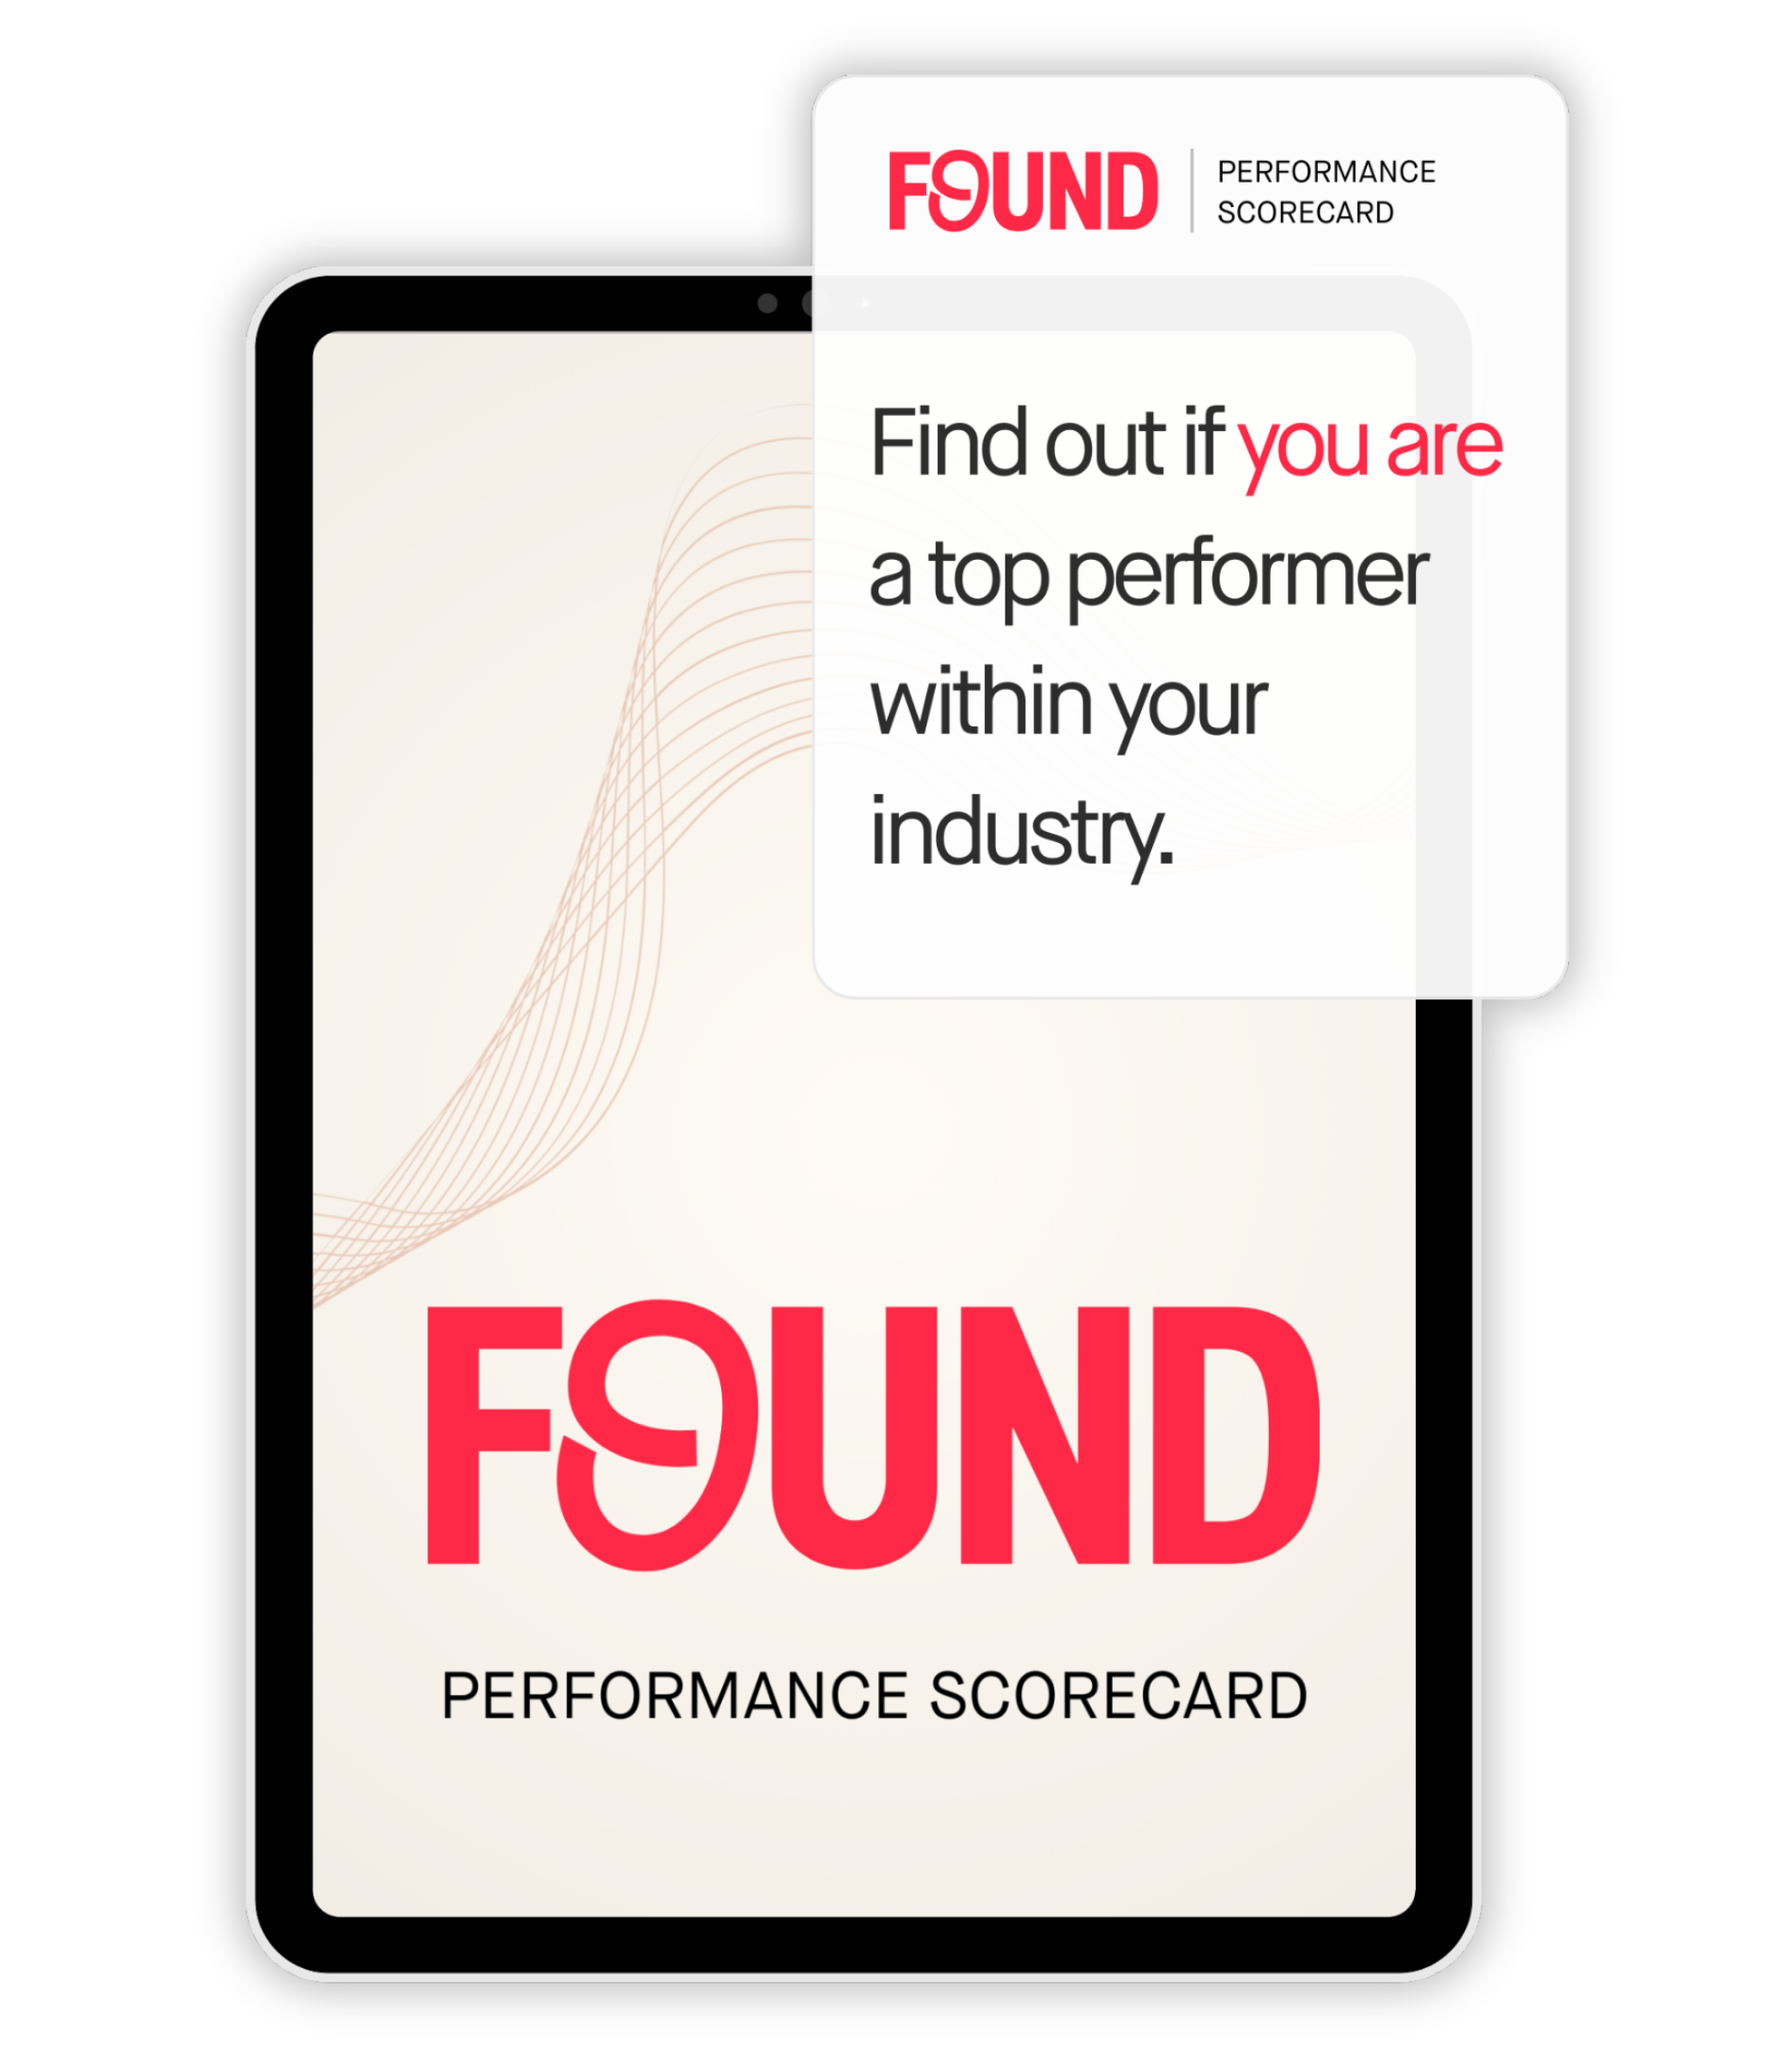
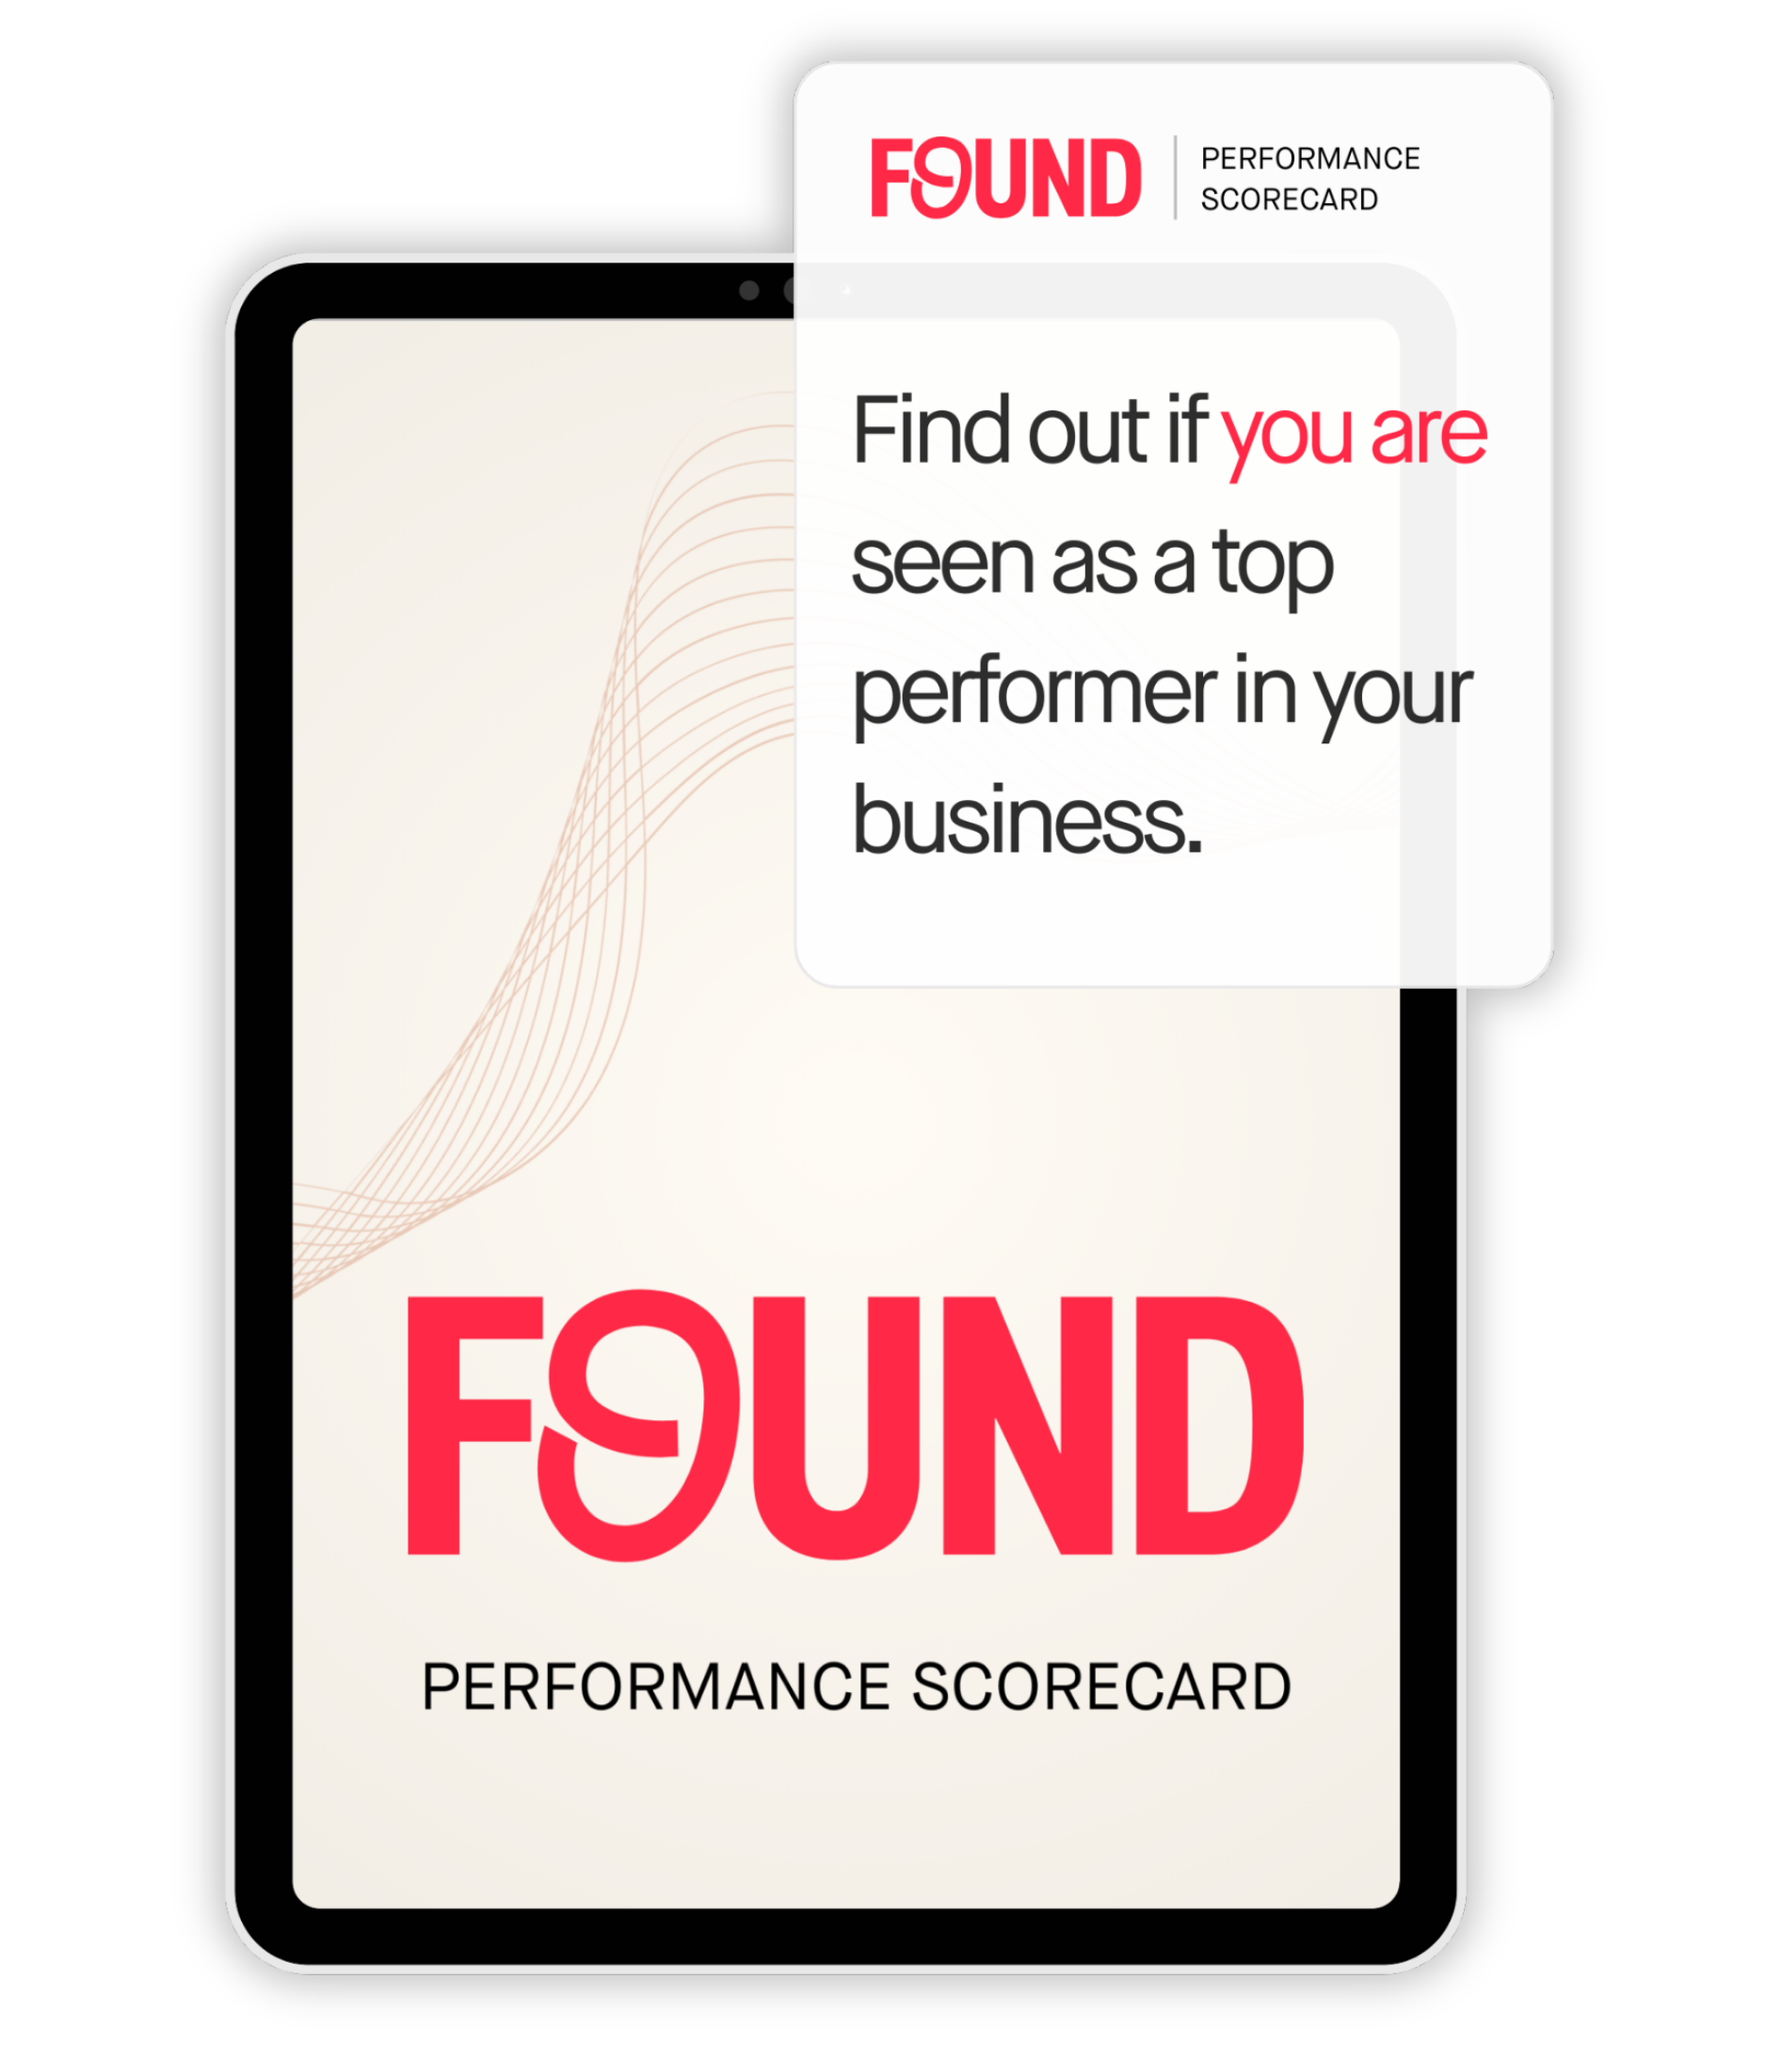
update email CTA with Emily photo and tighter copy

Changed region(s): [[0.1237, 0.0311, 0.8971, 0.9634], [0.2165, 0.808, 0.7424, 0.8391]]

diff --git a/src/components/Scorecard.jsx b/src/components/Scorecard.jsx
@@ -76,26 +76,26 @@ function IntroScreen({ onStart }) {
                 <span className="hiw-num">01</span>
                 <div>
                   <strong>Research Based Questions</strong>
-                  <p>25 behaviourally anchored yes/no questions measure your Performance and Potential — the two dimensions that determine whether you are in the critical talent pool.</p>
+                  <p>25 behaviourally anchored yes/no questions measure your Performance and Potential - the two dimensions that determine how likely you are to be a Key Performer.</p>
                 </div>
               </li>
               <li>
                 <span className="hiw-num">02</span>
                 <div>
                   <strong>Detailed Performance Scores</strong>
-                  <p>You will be placed in one of four quadrants: Key Performer, Workhorse, Emerging, or At Risk. Each comes with a breakdown across five dimensions: Perspective, Pace, Profile, Performance, and Progress.</p>
+                  <p>You will be placed in one of four quadrants: Key Performer, Workhorse, Emerging, or At Risk. Each comes with a breakdown across five dimensions.</p>
                 </div>
               </li>
               <li>
                 <span className="hiw-num">03</span>
                 <div>
                   <strong>Personalised Report</strong>
-                  <p>Your result includes honest context about what it means for your career and a tailored recommendation for what to do next.</p>
+                  <p>Your result includes context about what it means for your career and recommendations for what to do next.</p>
                 </div>
               </li>
             </ul>
             <button className="btn-primary" onClick={onStart} style={{ marginTop: '2.5rem' }}>
-              Find Out Where You Stand
+             Discover Your Performance Score
               <svg width="16" height="16" viewBox="0 0 16 16" fill="none"><path d="M3 8h10M9 4l4 4-4 4" stroke="currentColor" strokeWidth="1.5" strokeLinecap="round" strokeLinejoin="round"/></svg>
             </button>
           </div>
@@ -137,7 +137,7 @@ function LeadScreen({ onSubmit }) {
     onSubmit(form);
   }
 
-  const jobLevels = ['Analyst / Associate', 'Manager', 'Senior Manager', 'Director', 'VP / SVP', 'C-Suite / Partner', 'Founder'];
+  const jobLevels = ['Analyst / Associate', 'Manager', 'Senior Manager', 'VP', 'Director/Principal', 'Partner', 'C-Suite', 'Founder'];
   const industries = ['Private Equity', 'Venture Capital', 'Investment Banking', 'Consulting', 'Law', 'Asset Management', 'Corporate / In-house', 'Technology', 'Other'];
 
   return (

diff --git a/src/models/scoring.js b/src/models/scoring.js
@@ -9,7 +9,7 @@ export const quadrants = {
   'key-performer': {
     label: 'Key Performer',
     color: '#16a34a',
-    summary: 'Operating at the level organisations compete to keep. You are visible, impactful, and moving forward. The risk is not capability — it is being stretched in the wrong direction.',
+    summary: 'Operating at the level organisations compete to keep. You are visible, impactful, and moving forward. The risk is not capability - it is being stretched in the wrong direction.',
     cta: {
       label: 'Stay sharp. See how the best stay ahead.',
       button: 'Explore FOUND Pro',
@@ -39,7 +39,7 @@ export const quadrants = {
   'at-risk': {
     label: 'At Risk',
     color: '#ff2846',
-    summary: 'Something is getting in the way. High performers end up here too — usually when the role, the environment, or the recognition has not kept pace with the person.',
+    summary: 'Something is getting in the way. High performers end up here too - usually when the role, the environment, or the recognition has not kept pace with the person.',
     cta: {
       label: 'Something is getting in the way. Let us find out what.',
       button: 'Book a Free Discovery Call with Emily',

diff --git a/src/models/questions.js b/src/models/questions.js
@@ -29,7 +29,7 @@ export const questions = [
 
   // ── Organisational Impact ──
   { dim: 'performance', text: 'Would a project noticeably slow down if you stepped away for a week?' },
-  { dim: 'performance', text: 'Do others depend on your judgment to move work forward?' },
+  { dim: 'performance', text: 'Do others depend on your judgement to move work forward?' },
   { dim: 'performance', text: 'Do leaders rely on you to solve difficult problems?' },
   { dim: 'performance', text: 'Do people listen when you speak in important meetings?' },
 
